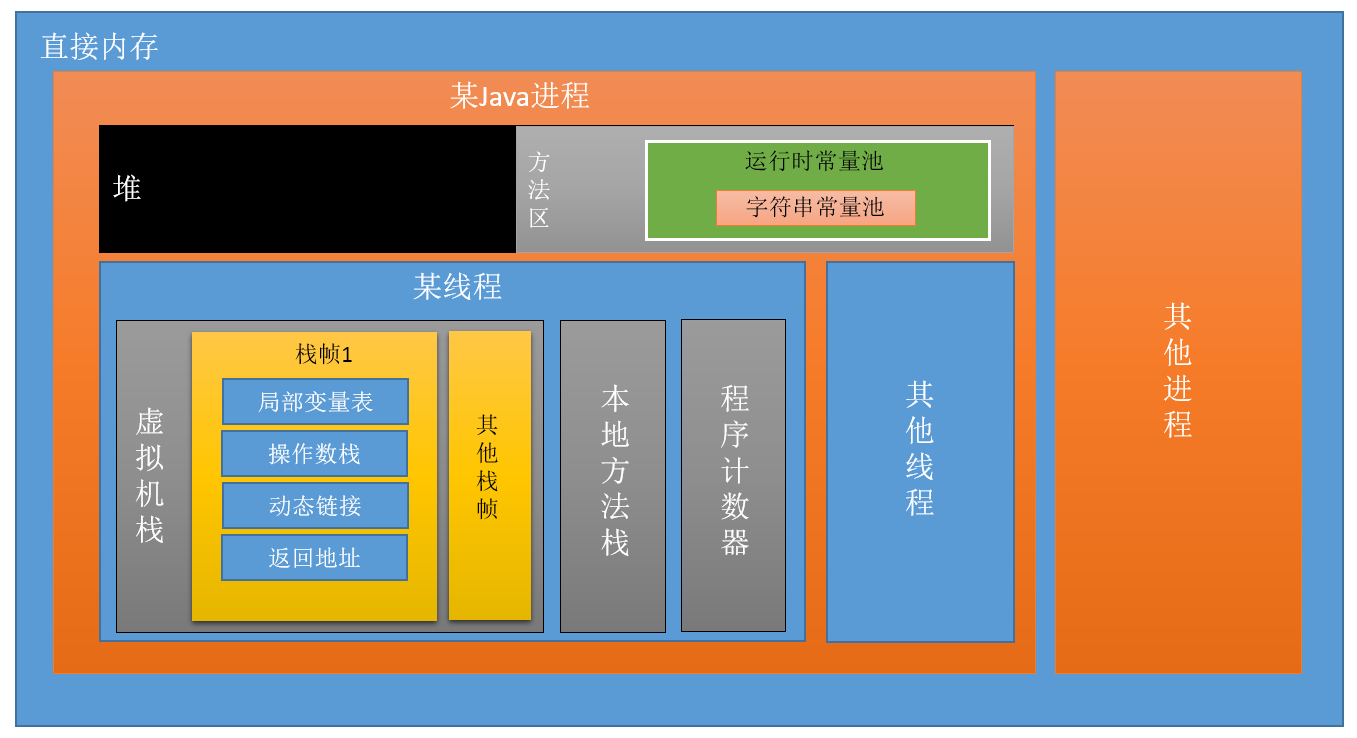
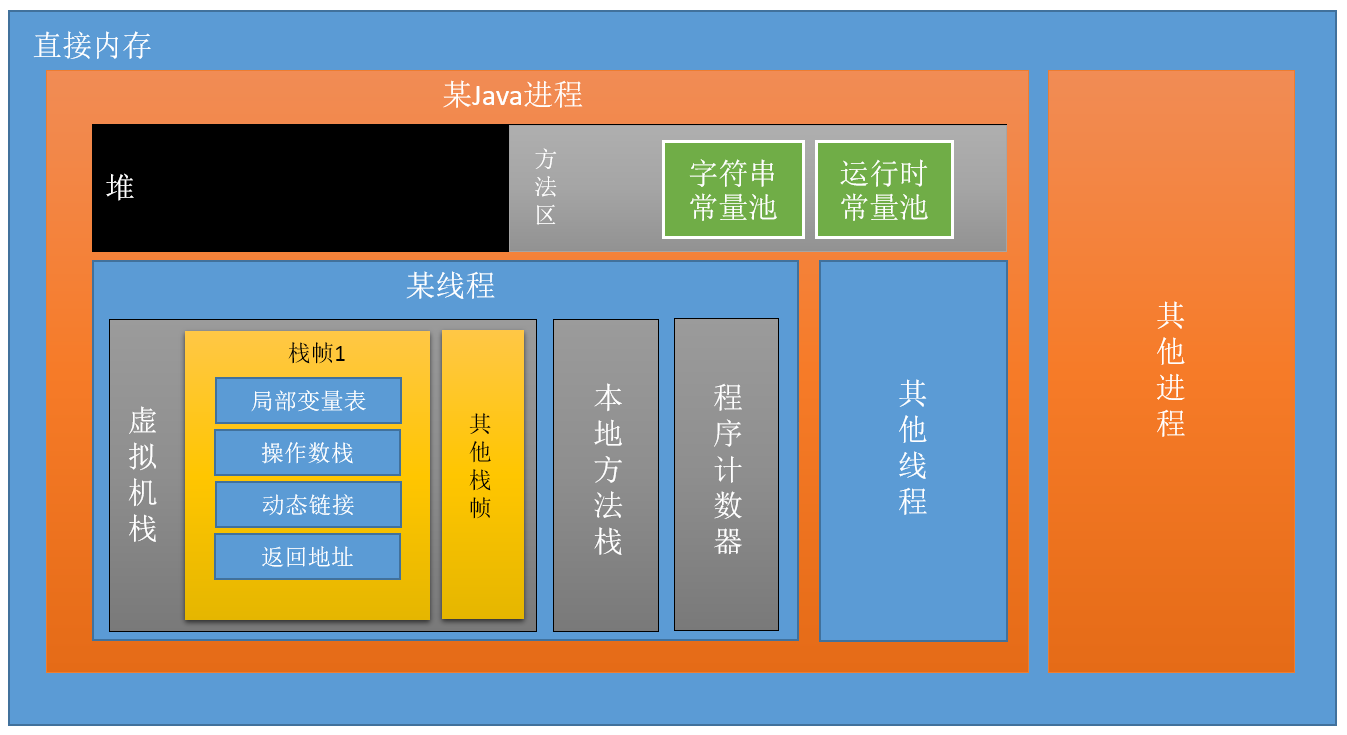
DDD

diff --git a/_posts/2018-01-20-java-memory-parts.md b/_posts/2018-01-20-java-memory-parts.md
@@ -28,20 +28,29 @@ mathjax: true
 1. 字符串常量池属于哪个数据区?
 2. Java6、Java7和Java8的运行时内存数据区域到底有何不一样？
 3. 什么是字面量，什么又是字符串常量？
+4. 什么是**本地内存**？他和**直接内存**相同嘛？什么又是**堆外内存**？
 
-下面我们围绕这三个问题做一些讨论和引申，从而帮助我们更好的理解运行时数据区域划分。我们先来回答第二个问题。以下三张图分别代表了Java6、Java7和Java8体系下的Java虚拟机与运行时数据区域划分。
+下面我们围绕这三个问题做一些讨论和引申，从而帮助我们更好的理解运行时数据区域划分。我们先来回答第二个问题。以下三张图分别代表了Java6、Java7和Java8体系下的Java虚拟机与运行时数据区域划分，哪些是线程私有，哪些是线程公有，哪些又是进程间公有都比较清晰了。关于第一个问题，也有了答案：在不同Java版本的虚拟机上，字符串常量池所在的位置也不一样。
+
 ### Java 6 虚拟机运行数据区
 
 ![Java 6 内存数据区域划分](/image/java-memory-parts/java6.png)
+
+当我们听到“字符串常量池也是方法区的一部分”的时候，我们要知道他大概暗指的是Java 6或者之前的版本。如上图所示，在Java 6虚拟机规范中，字符串常量池确实是方法区的一部分，受永久代内存区大小的限制。当频繁使用Spring.intern()时，可能会引发OOM（PermGen space)。
 
 ### Java 7 虚拟机运行数据区
 
 ![Java 7 内存数据区域划分](/image/java-memory-parts/java7.png)
 
+从Java 7 开始，规范将**字符串常量池**迁移到了**Java堆**中，受Java堆大小的限制。当频繁使用String.intern()时，可能会引发OOM(Java heap space)。
+
 ### Java 8 虚拟机运行数据区
 
 ![Java 8 内存数据区域划分](/image/java-memory-parts/java8.png)
 
+Java 8 虚拟机规范彻底移除了永久代（-XX:Permsize和-XX:MaxPermsize均已失效），替而代之的则是**元空间(Metaspace)**。**字符串常量池**仍然在**Java堆**中，但方法区已经迁移到了元空间中。
+
+## 具体说明
 
 
 
